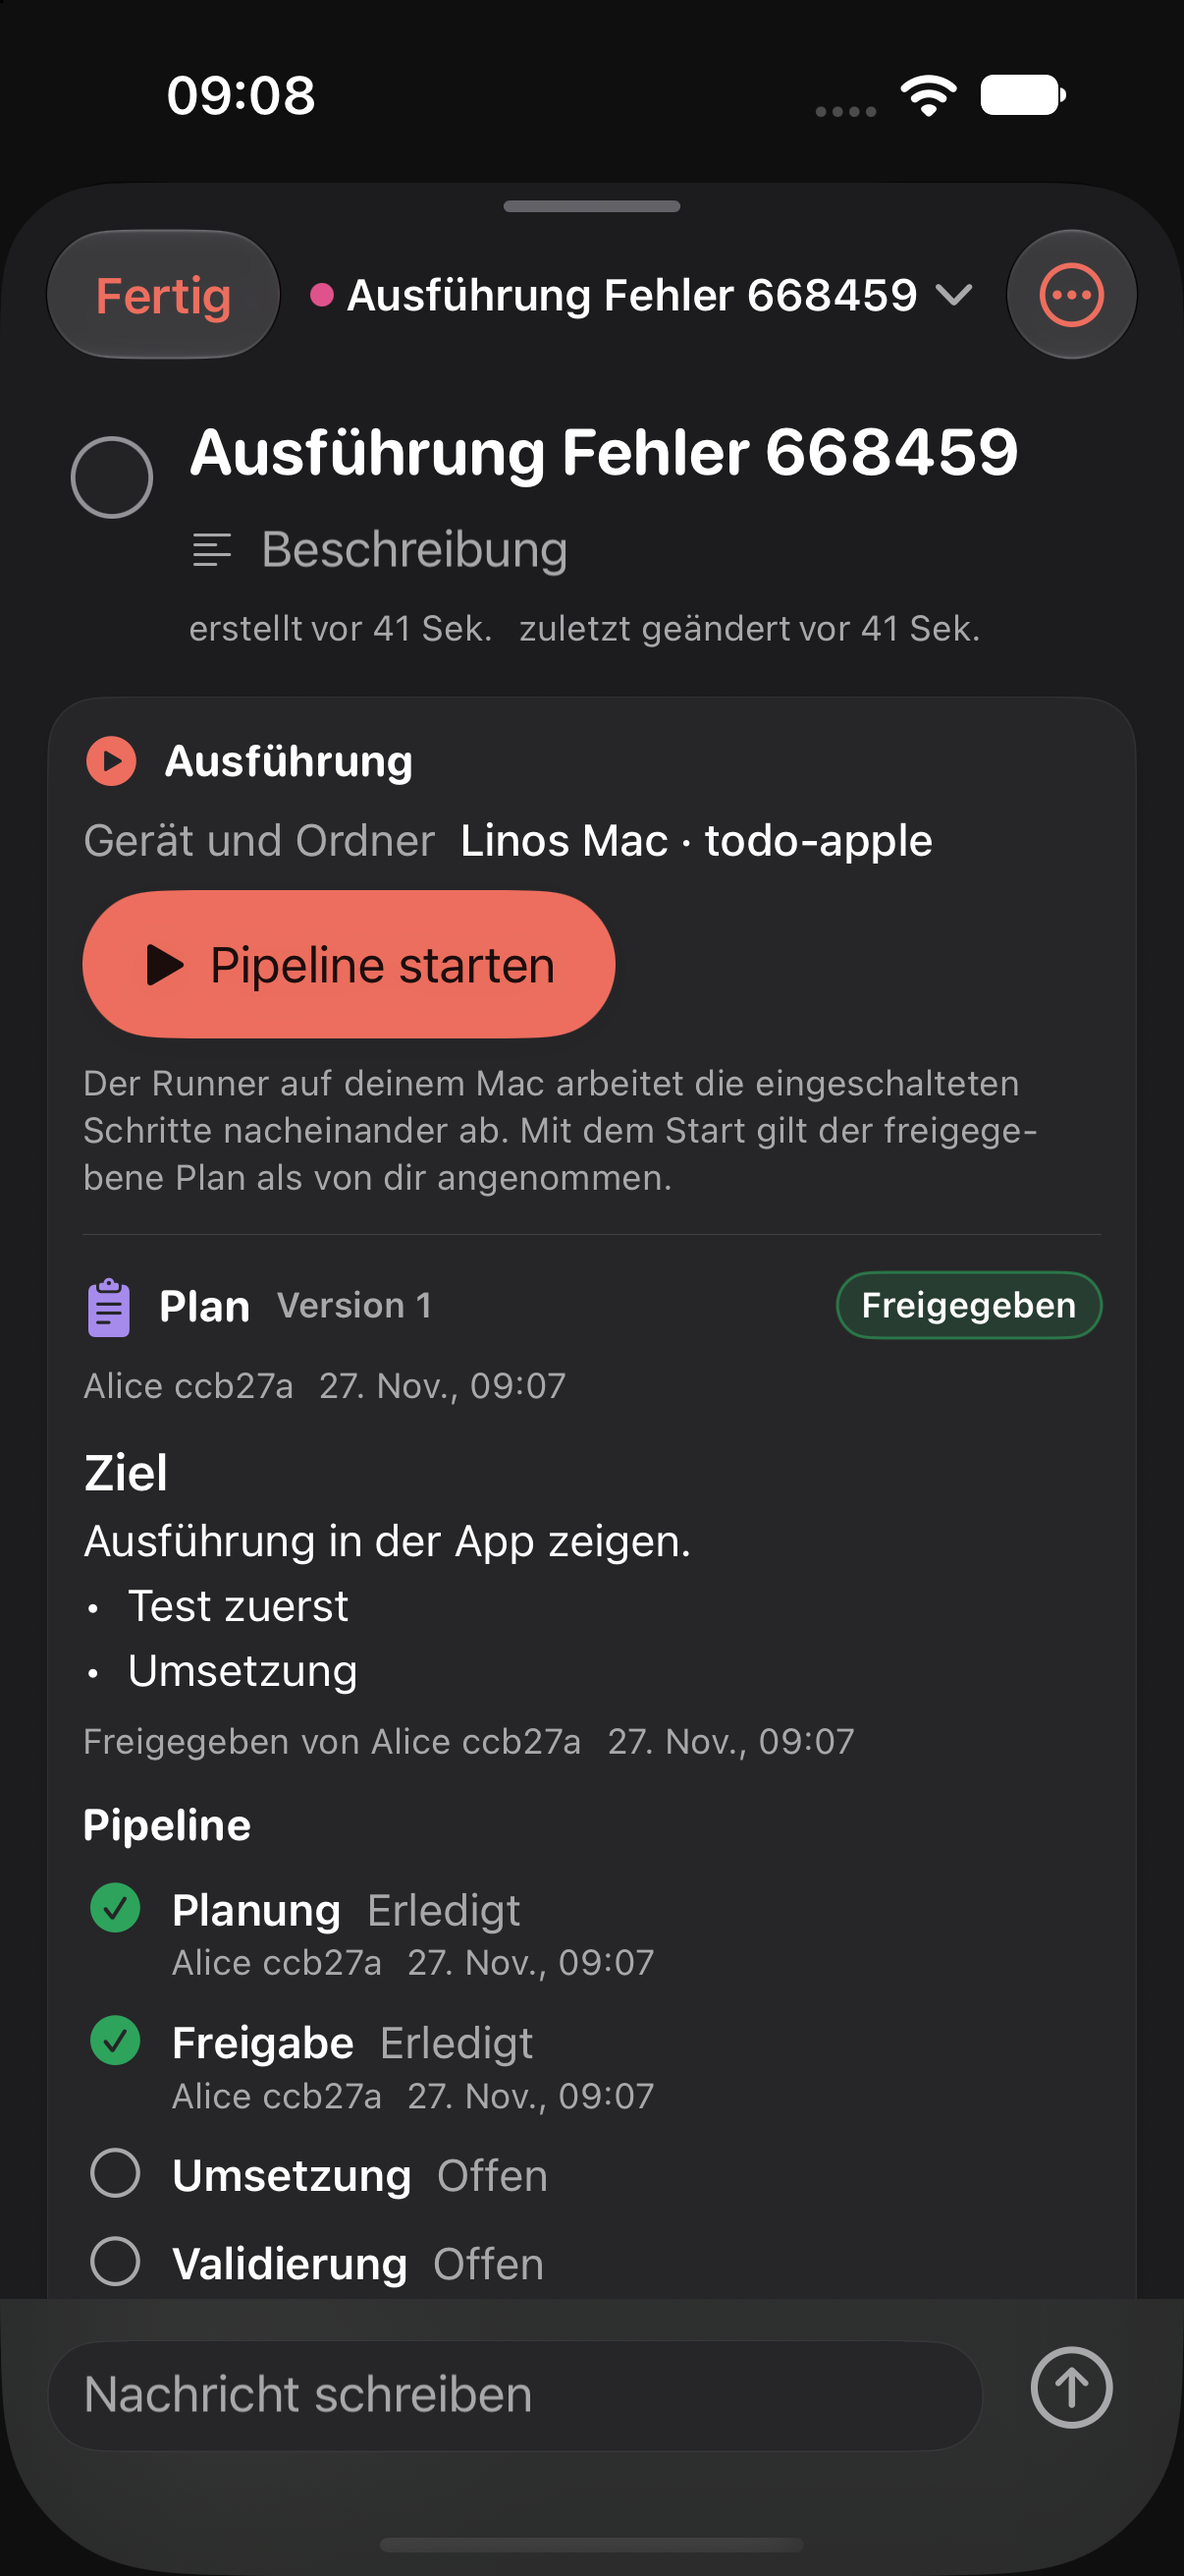
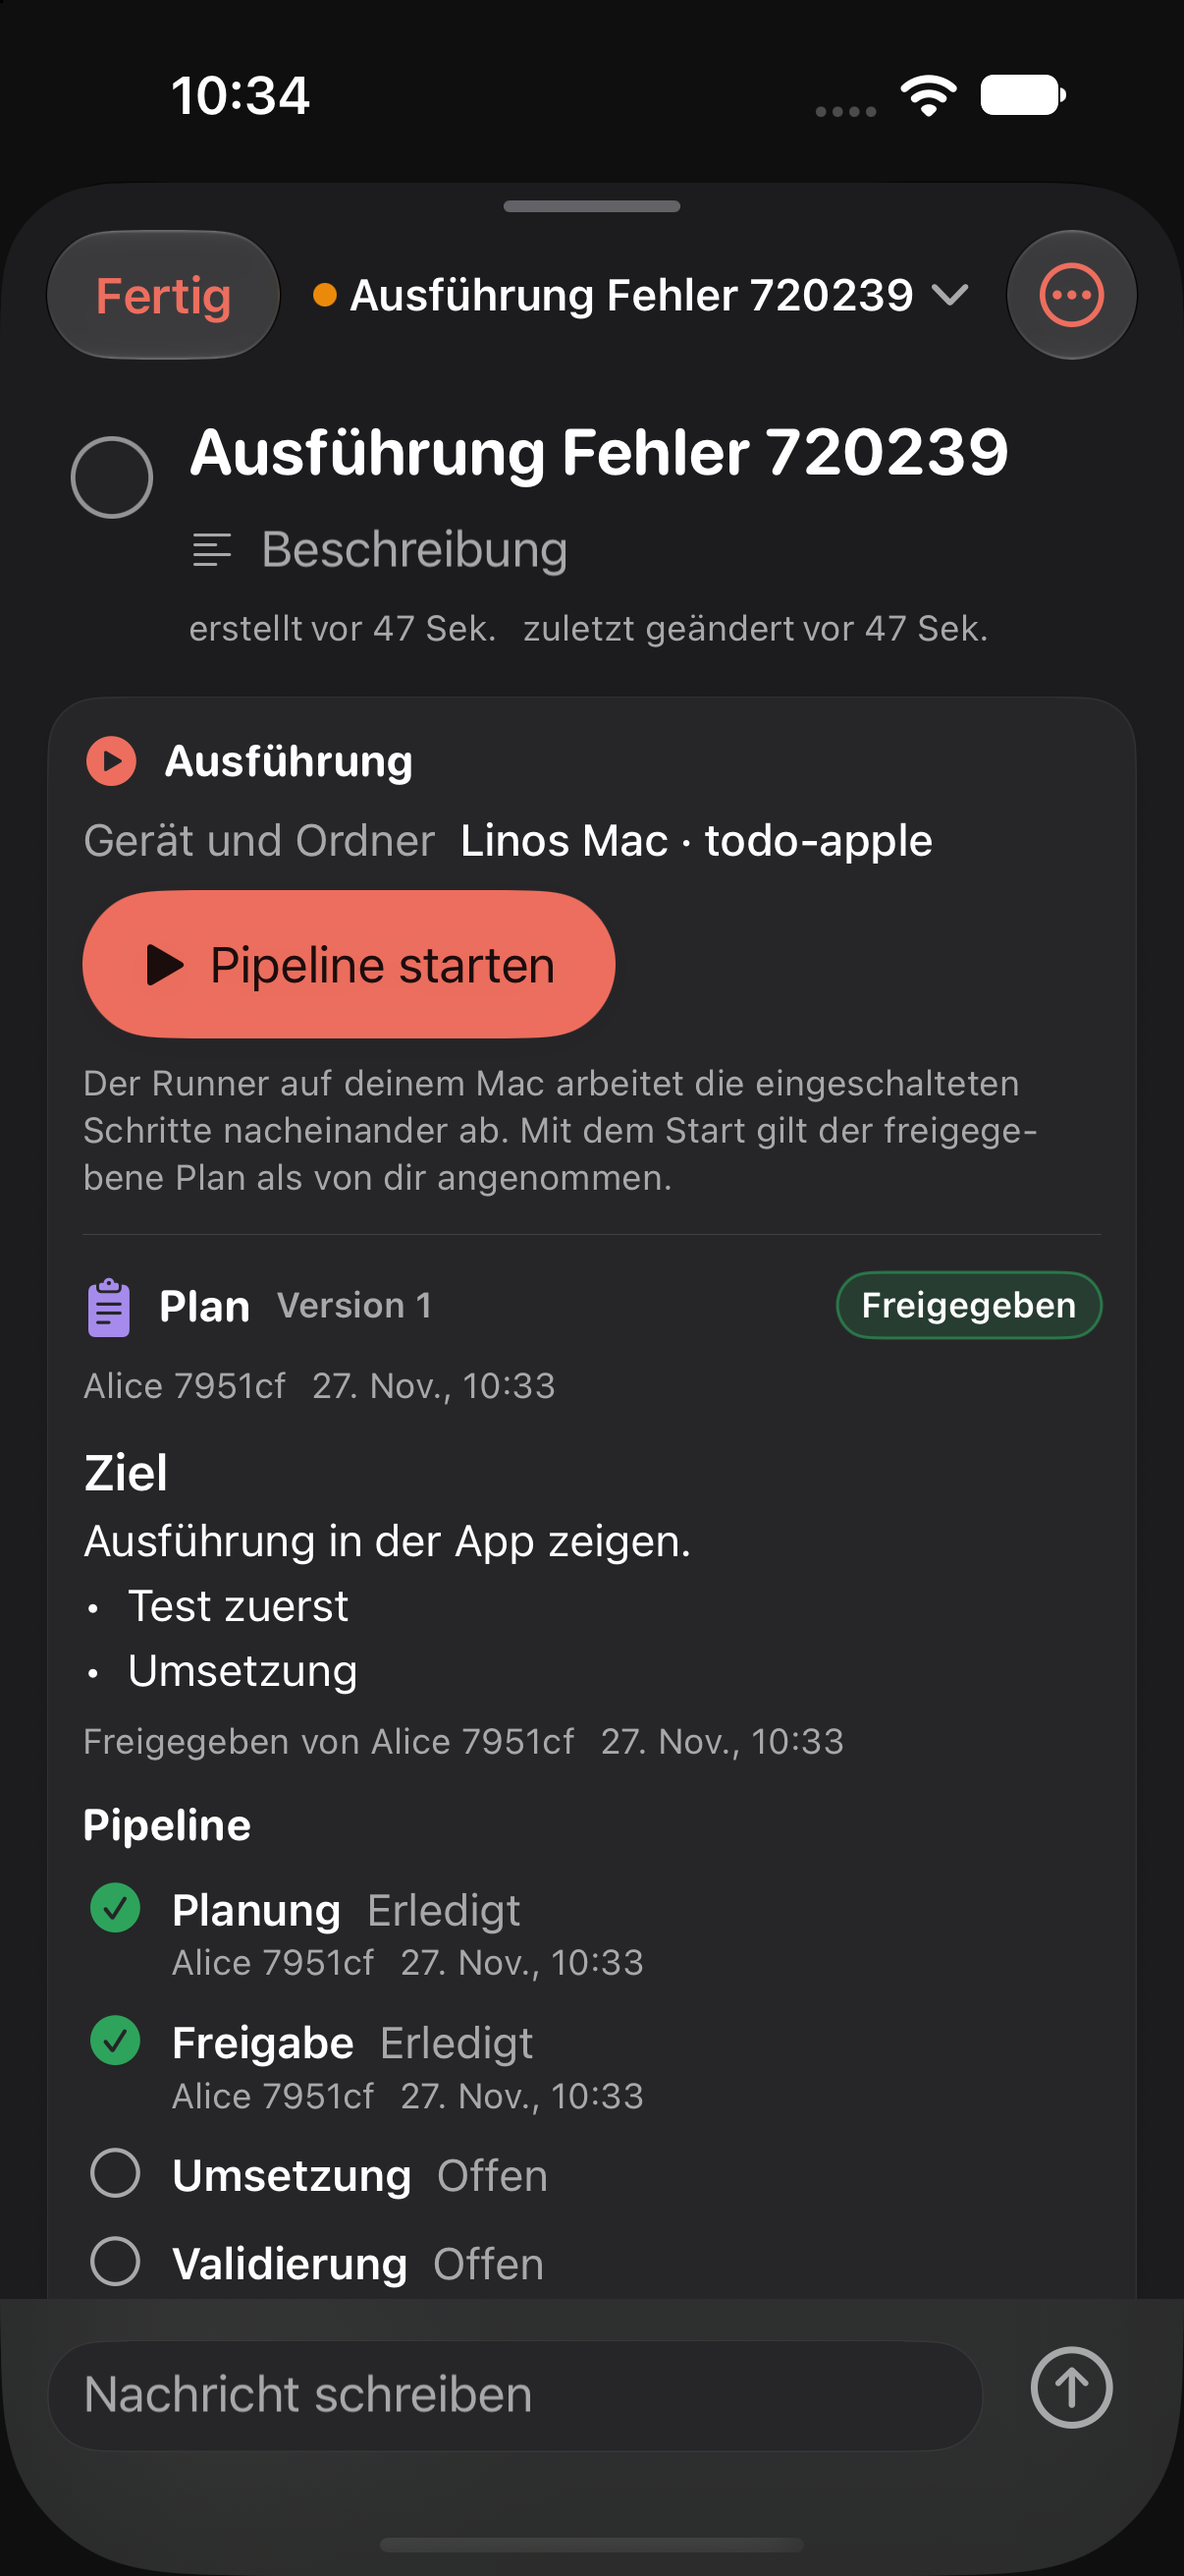
Karte BEE2417E: Test Sendezustand der Ausfuehrung (Wird gesendet bei Start/Stopp, Erfolg, Serverfehler, Schliessen) ueber den Verzoegerungs-Proxy; ui-tests.sh startet den Proxy; iPhone-Bilder vom Stand 20723f1

diff --git a/App/UITests/PipelineExecutionUITests.swift b/App/UITests/PipelineExecutionUITests.swift
@@ -5,7 +5,8 @@ import XCTest
 /// the Mac runner over the runner API (pair, poll with `pipeline=1`, hold, claim, progress, submit) and reads every action back
 /// over REST. Every test uses its own project and runner device, so other tests never see a binding. Needs `TODO_UITEST_SERVER` /
 /// `TODO_UITEST_TOKEN` (skipped without); with `TODO_UITEST_HELPER` (scripts/ui-tests.sh) the states are also taken as pictures in
-/// light and dark (`<scratch>/shots/<device>-ausfuehrung-…`).
+/// light and dark (`<scratch>/shots/<device>-ausfuehrung-…`). The sending state needs `TODO_UITEST_DELAY_PROXY`
+/// (`scripts/selection-proxy.py` in front of the backend, started by `scripts/ui-tests.sh`).
 @MainActor
 final class PipelineExecutionUITests: XCTestCase {
     private var app: XCUIApplication!
@@ -134,9 +135,9 @@ final class PipelineExecutionUITests: XCTestCase {
 
     // MARK: App helpers
 
-    private func launch() {
+    private func launch(through appServer: String? = nil) {
         app = XCUIApplication()
-        app.launchEnvironment["TODO_DEBUG_SERVER"] = server
+        app.launchEnvironment["TODO_DEBUG_SERVER"] = appServer ?? server
         app.launchEnvironment["TODO_DEBUG_TOKEN"] = token
         app.launchEnvironment["TODO_DEBUG_SELECT"] = "today"
         app.launchEnvironment["TODO_DEBUG_NOW"] = "12:00"
@@ -418,6 +419,78 @@ final class PipelineExecutionUITests: XCTestCase {
         XCTAssertFalse(element("execution.start").waitForExistence(timeout: 8), "no pipeline card on a plain to-do")
         XCTAssertFalse(element("pipeline.step.planner").exists)
         try await pictures("klassisch", showing: "task.title")
+    }
+
+    /// "Wird gesendet …" while start or stop are on their way (button locked), gone after success and after a failure; closing the
+    /// card while sending leaves nothing stuck.
+    func testSendingStateOnSuccessFailureAndClose() async throws {
+        guard let proxy = ProcessInfo.processInfo.environment["TODO_UITEST_DELAY_PROXY"] else {
+            throw XCTSkip("TODO_UITEST_DELAY_PROXY not set (run through scripts/ui-tests.sh)")
+        }
+        let runner = try await pairRunner("Senden")
+        let card = try await createCard("Ausführung Senden", in: runner.projectID)
+        launch(through: proxy)
+        openCard(card.title, waitFor: "execution.start")
+        func control(_ rules: [String: Any]) async throws {
+            var r = URLRequest(url: URL(string: proxy + "/__control")!)
+            r.httpMethod = "POST"; r.httpBody = try JSONSerialization.data(withJSONObject: rules)
+            _ = try await URLSession.shared.data(for: r)
+        }
+        func sending(_ id: String, _ name: String) async throws {
+            expectLabel(id, contains: "Wird gesendet")
+            XCTAssertFalse(element(id).isEnabled, "\(id) is locked while sending")
+            try await pictures(name, showing: id)
+        }
+
+        // Start fails: the sending label goes, the message says so, nothing started.
+        try await control(["exec-start": ["delay": 20, "status": 500]])
+        try await pictures("senden-1-start-vorher", showing: "execution.start")
+        tap("execution.start")
+        try await sending("execution.start", "senden-2-start-fehler-waehrend")
+        expectLabel("execution.feedback", contains: "Das hat nicht geklappt")
+        expectLabel("execution.start", contains: "Pipeline starten")
+        XCTAssertTrue(element("execution.start").isEnabled, "free again after the failure")
+        let failed = try await pipeline(card.id)
+        XCTAssertNil(failed["execution"], "nothing started")
+        try await pictures("senden-3-start-fehler-nachher", showing: "execution.start")
+
+        // Start succeeds.
+        try await control(["exec-start": ["delay": 20]])
+        tap("execution.start")
+        try await sending("execution.start", "senden-4-start-waehrend")
+        expectLabel("execution.state", contains: "Läuft")
+        expectLabel("execution.feedback", contains: "Pipeline gestartet.")
+        expectGone("execution.start")
+        try await pictures("senden-5-start-nachher", showing: "execution.stop")
+
+        // Stop fails, then succeeds.
+        try await control(["exec-stop": ["delay": 20, "status": 500]])
+        tap("execution.stop")
+        try await sending("execution.stop", "senden-6-stopp-fehler-waehrend")
+        expectLabel("execution.feedback", contains: "Das hat nicht geklappt")
+        expectLabel("execution.stop", contains: "Stoppen")
+        XCTAssertTrue(element("execution.stop").isEnabled)
+        expectLabel("execution.state", contains: "Läuft")
+        try await pictures("senden-7-stopp-fehler-nachher", showing: "execution.stop")
+        try await control(["exec-stop": ["delay": 20]])
+        tap("execution.stop")
+        try await sending("execution.stop", "senden-8-stopp-waehrend")
+        expectLabel("execution.state", contains: "Gestoppt")
+        expectGone("execution.stop")
+        try await pictures("senden-9-stopp-nachher", showing: "execution.hint")
+
+        // Closed while sending: reopened, the card shows the stored state and no leftover sending label.
+        try await control(["exec-start": ["delay": 6]])
+        tap("execution.start")
+        expectLabel("execution.start", contains: "Wird gesendet")
+        app.buttons["Fertig"].tap()
+        try await expectPipeline(card.id, "the request goes on after closing") { self.execution($0)["state"] as? String == "running" }
+        openCard(card.title, waitFor: "execution.stop")
+        expectLabel("execution.stop", contains: "Stoppen")
+        XCTAssertTrue(element("execution.stop").isEnabled)
+        XCTAssertFalse(element("execution.start").exists)
+        XCTAssertFalse(element("execution.feedback").exists, "the message belonged to the closed card")
+        try await control([:])
     }
 
     private func bindingID(_ runner: Runner) async throws -> String {

diff --git a/scripts/selection-proxy.py b/scripts/selection-proxy.py
@@ -1,10 +1,12 @@
 #!/usr/bin/env python3
-"""Loopback proxy for the UI test SelectionPendingTests: forwards to a local backend, but the test can delay or fail the
-selection preview and the mandate save, so the pending, failed and cancelled states can be seen and asserted.
+"""Loopback proxy for UI tests of pending states (SelectionPendingTests, PipelineExecutionUITests): forwards to a local
+backend, but the test can delay or fail the selection preview, the mandate save and the pipeline actions, so the pending,
+failed and cancelled states can be seen and asserted.
 
   selection-proxy.py <listen port> <backend port>
 
   POST /__control {"preview": {"delay": 5, "status": 200}, "save": {...}}   replaces the rules and clears the log
+                  (rules: preview, save, exec-start, exec-stop, exec-continue, exec-retry)
   GET  /__log     [{"rule": "preview", "status": 200, "forwarded": true}, ...] answered slow requests, oldest first
 
 A forced status other than 200 is answered without asking the backend, so nothing is stored.
@@ -17,7 +19,14 @@ from http.server import BaseHTTPRequestHandler, ThreadingHTTPServer
 
 listen, backend = int(sys.argv[1]), int(sys.argv[2])
 RULES = {("POST", "/v1/project-selection/preview"): "preview", ("PUT", "/v1/settings/brain-mandate"): "save"}
+PIPELINE = (("/execution", "exec-start"), ("/execution/stop", "exec-stop"), ("/execution/continue", "exec-continue"), ("/retry", "exec-retry"))
 rules, log = {}, []
+
+
+def rule_name(method, path):
+    if method == "POST" and "/pipeline/" in path:
+        return next((name for end, name in PIPELINE if path.endswith(end)), None)
+    return RULES.get((method, path))
 
 
 class Proxy(BaseHTTPRequestHandler):
@@ -42,7 +51,7 @@ class Proxy(BaseHTTPRequestHandler):
             return self.reply(200, [], b"{}")
         if path == "/__log":
             return self.reply(200, [("content-type", "application/json")], json.dumps(log).encode())
-        name = RULES.get((self.command, path))
+        name = rule_name(self.command, path)
         rule = rules.get(name, {}) if name else {}
         time.sleep(rule.get("delay", 0))
         status = rule.get("status", 200)
